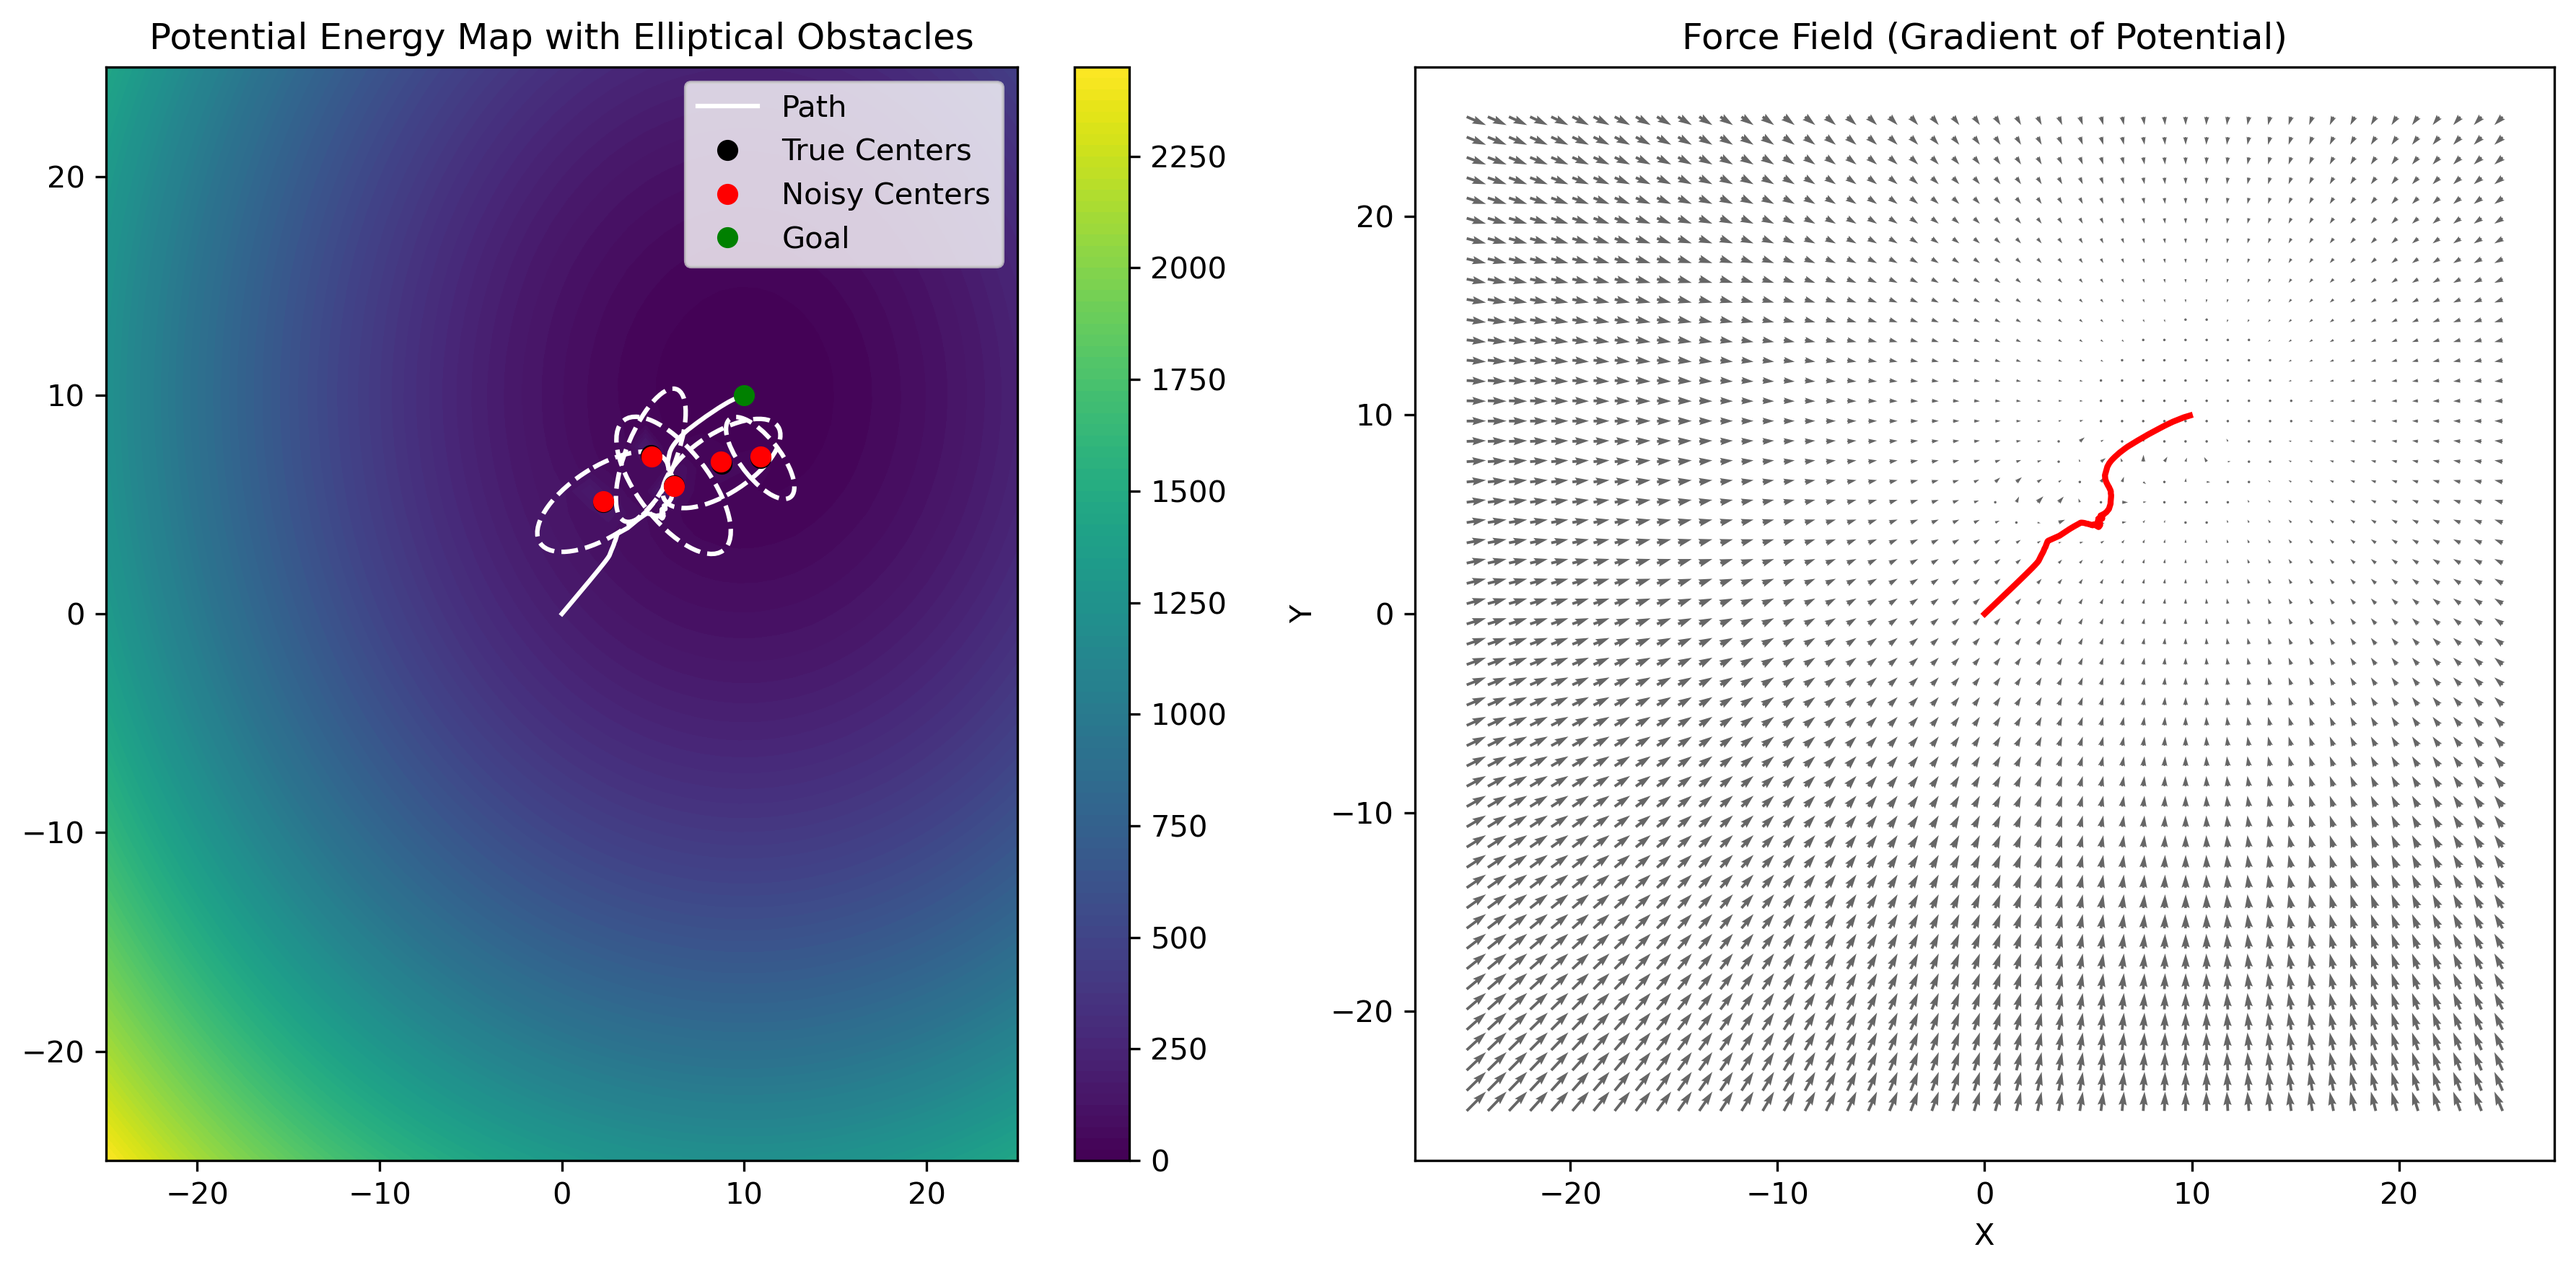
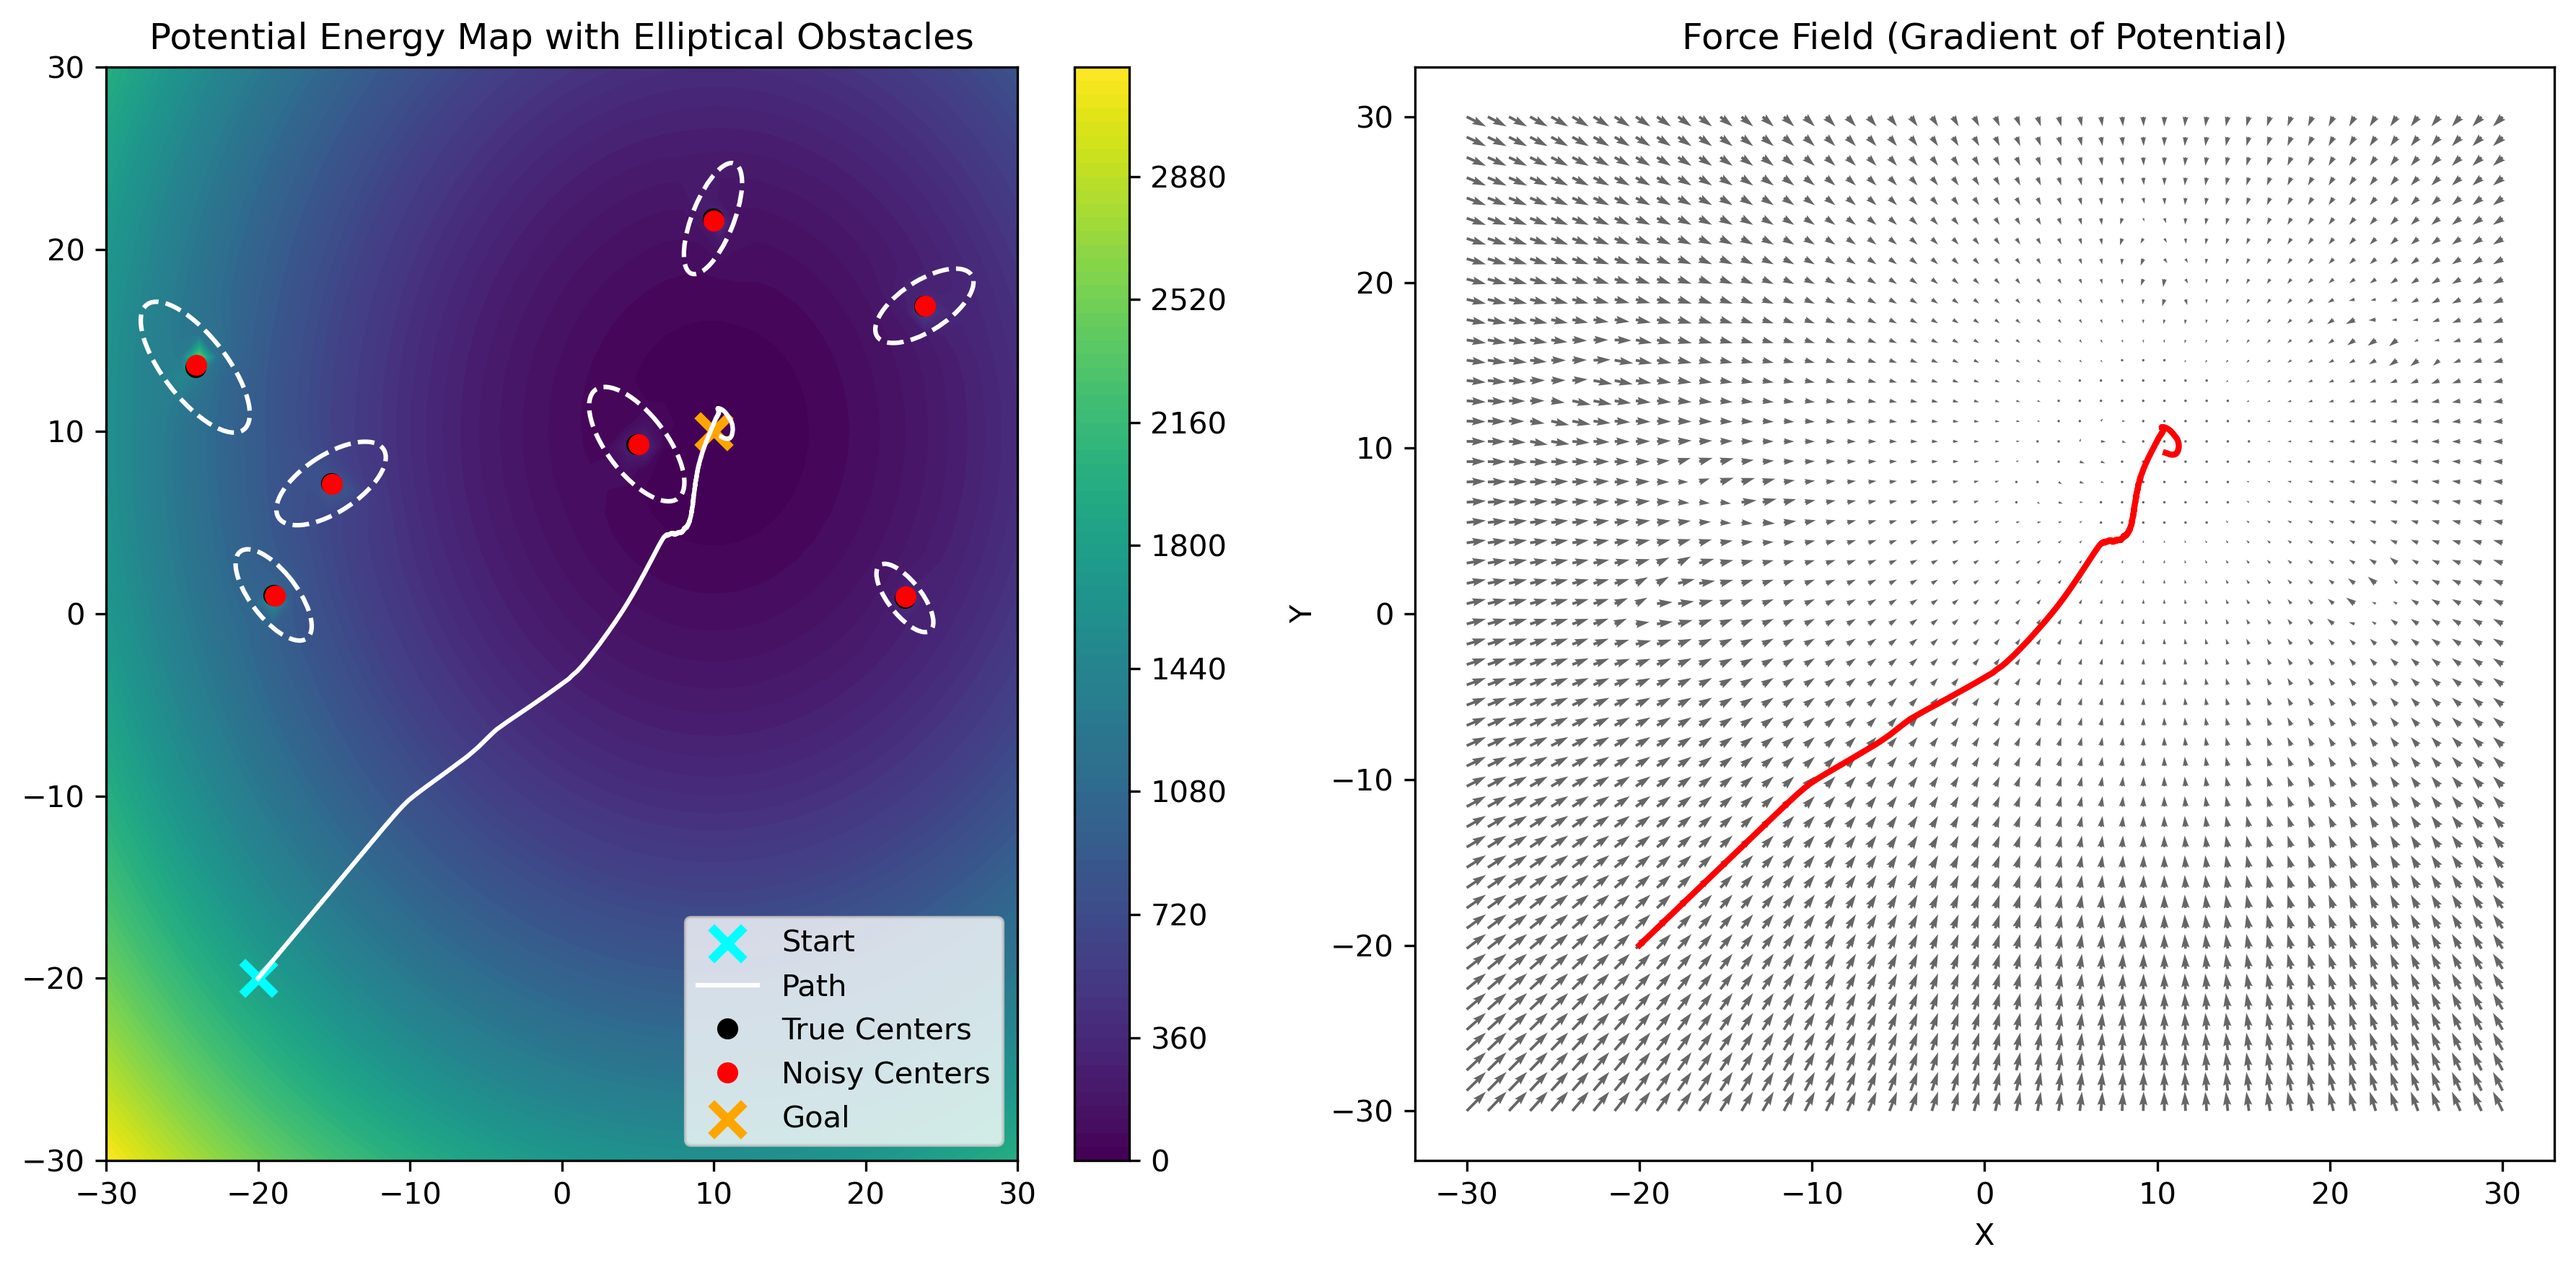
genarating figures and making obsticles static

diff --git a/simulation/complete_system.py b/simulation/complete_system.py
@@ -18,13 +18,18 @@ import random
 import time
 import itertools
 from typing import List, Optional, Tuple
+from datetime import datetime
+import matplotlib.pyplot as plt
+from matplotlib.patches import Ellipse
+from mpl_toolkits.mplot3d import Axes3D
 
 # Import potential field functions from existing code
 import sys
 import os
 sys.path.append(os.path.dirname(os.path.dirname(os.path.abspath(__file__))))
 from local_potential_field_demo_dynamic import (
-    total_force, dt  # total_force calculates attractive + repulsive forces, dt is time step
+    total_force, potential, dt,  # total_force and potential for visualization
+    a_base, b_base, alpha, beta  # For elliptical obstacle visualization
 )
 
 
@@ -588,10 +593,13 @@ def main():
     print("Running complete system (Global TSP + Local RRT + Potential Fields)...")
     print("Waypoints are dynamically generated based on obstacles and path")
     
+    # Make obstacles static (no movement)
+    obstacle_speeds = np.zeros_like(obstacle_speeds)
+    
     for step in range(max_steps):
-        # Update obstacles
-        obstacles_true[:, 0] += obstacle_speeds[:, 0] * dt
-        obstacles_true[:, 1] += obstacle_speeds[:, 1] * dt
+        # Obstacles are static - no position updates
+        # obstacles_true[:, 0] += obstacle_speeds[:, 0] * dt
+        # obstacles_true[:, 1] += obstacle_speeds[:, 1] * dt
         
         # Robot observes obstacles (noisy)
         obstacles_noisy = obstacles_true + np.random.normal(0, sigma, obstacles_true.shape)
@@ -619,6 +627,169 @@ def main():
             break
     
     print(f"Final path has {len(path_data)} points")
+    
+    # ============================================================
+    # Visualization: Generate figures based on actual run
+    # Uses same method/style as local_potential_field_demo_dynamic.py
+    # ============================================================
+    print("\nGenerating visualization figures...")
+    
+    # Convert path data to numpy array
+    path_array = np.array(path_data)
+    
+    # Create meshgrid for potential field computation
+    # Determine bounds from path and obstacles
+    all_x = list(path_array[:, 0]) + list(obstacles_true[:, 0]) + [q[0], q_goal[0]]
+    all_y = list(path_array[:, 1]) + list(obstacles_true[:, 1]) + [q[1], q_goal[1]]
+    x_min, x_max = min(all_x) - 2, max(all_x) + 2
+    y_min, y_max = min(all_y) - 2, max(all_y) + 2
+    
+    x_range = np.linspace(x_min, x_max, 50)
+    y_range = np.linspace(y_min, y_max, 50)
+    X, Y = np.meshgrid(x_range, y_range)
+    Z = np.zeros_like(X)
+    U = np.zeros_like(X)
+    V = np.zeros_like(Y)
+    
+    # Compute potential and force field using final obstacle positions
+    # Use the last noisy observation from the simulation
+    final_obstacles_noisy = obstacles_noisy
+    
+    for i in range(X.shape[0]):
+        for j in range(X.shape[1]):
+            pos = np.array([X[i, j], Y[i, j]])
+            # Compute potential
+            Z[i, j] = potential(pos, q_goal, final_obstacles_noisy, obstacle_speeds)
+            # Compute force field
+            F = total_force(pos, q_goal, final_obstacles_noisy, obstacle_speeds)
+            U[i, j], V[i, j] = F[0], F[1]
+    
+    # Create generated_figures directory for new figures (Dec 1st figures stay in figures/)
+    os.makedirs("generated_figures", exist_ok=True)
+    
+    # Generate unique filenames with timestamp (saved in generated_figures folder)
+    timestamp = datetime.now().strftime("%Y%m%d_%H%M%S")
+    fig_3d_name = f"generated_figures/fig_3d_potentialsurface_{timestamp}.png"
+    fig_contour_name = f"generated_figures/fig_contour_force_{timestamp}.png"
+    
+    # ---- 1⃣ 3D Potential Surface (same style as template) ----
+    fig = plt.figure(figsize=(10, 8))
+    ax = fig.add_subplot(111, projection='3d')
+    
+    # Surface + colorbar
+    surf = ax.plot_surface(X, Y, Z, cmap='viridis', alpha=0.7)
+    cbar = fig.colorbar(surf, ax=ax, shrink=0.6, pad=0.1)
+    cbar.set_label("Potential Energy", fontsize=14)
+    cbar.ax.tick_params(labelsize=12)
+    
+    # Path with correct potential computation
+    path_potentials = [potential(p, q_goal, final_obstacles_noisy, obstacle_speeds) for p in path_array]
+    ax.plot(path_array[:, 0], path_array[:, 1], path_potentials,
+            color='red', linewidth=2, label='Path')
+    
+    # Start position
+    ax.scatter(path_array[0, 0], path_array[0, 1], path_potentials[0],
+               color='cyan', marker='x', s=120, linewidths=3, label='Start')
+    
+    # REAL OBSTACLES (truth)
+    ax.scatter(obstacles_true[:, 0], obstacles_true[:, 1],
+               np.max(Z) * 0.8, color='black', s=80, label='True Obstacle Centers')
+    
+    # NOISY OBSTACLES (sensor-detected)
+    ax.scatter(final_obstacles_noisy[:, 0], final_obstacles_noisy[:, 1],
+               np.max(Z) * 0.8, color='red', s=80, label='Noisy Detected Centers')
+    
+    # Goal position
+    goal_potential = potential(q_goal, q_goal, final_obstacles_noisy, obstacle_speeds)
+    ax.scatter(q_goal[0], q_goal[1], goal_potential,
+               color='orange', s=80, marker='x', linewidths=3, label='Goal')
+    
+    # Labels and title
+    ax.set_xlabel('X', fontsize=16)
+    ax.set_ylabel('Y', fontsize=16)
+    ax.set_zlabel('Potential Energy', fontsize=16)
+    ax.set_title('3D Potential Field Surface', fontsize=18)
+    ax.tick_params(axis='both', labelsize=12)
+    ax.legend(fontsize=14)
+    
+    plt.savefig(fig_3d_name, dpi=300, bbox_inches='tight')
+    print(f"Saved: {fig_3d_name}")
+    plt.show()
+    
+    # ---- 2⃣ 2D Contour + Force Field (same style as template) ----
+    fig, axs = plt.subplots(1, 2, figsize=(12, 6))
+    
+    # Left plot: Contour map
+    contour = axs[0].contourf(X, Y, Z, levels=100, cmap='viridis')
+    
+    # Start position
+    start_x, start_y = path_array[0]
+    axs[0].scatter(start_x, start_y, marker='x', s=120, color='cyan', 
+                   linewidths=3, label='Start')
+    
+    # Path
+    axs[0].plot(path_array[:, 0], path_array[:, 1], 'w-', linewidth=2, label='Path')
+    
+    # True vs noisy obstacles
+    axs[0].plot(obstacles_true[:, 0], obstacles_true[:, 1], 'ko', 
+               markersize=8, label='True Centers')
+    axs[0].plot(final_obstacles_noisy[:, 0], final_obstacles_noisy[:, 1], 'ro', 
+               markersize=8, label='Noisy Centers')
+    
+    # Goal position
+    axs[0].scatter(q_goal[0], q_goal[1], marker='x', s=120, color='orange', 
+                  linewidths=3, label='Goal')
+    
+    # Draw ellipses for obstacles (same method as template)
+    for i, obs in enumerate(obstacles_true):
+        if i < len(obstacle_speeds):
+            vx, vy = obstacle_speeds[i]
+        else:
+            vx, vy = 0.0, 0.0
+        vmag = np.sqrt(vx**2 + vy**2)
+        theta = np.degrees(np.arctan2(vy, vx + 1e-12))
+        
+        # Physical ellipse
+        if i < len(a_base) and i < len(b_base):
+            a = a_base[i] + alpha * vmag
+            b = b_base[i] + beta * vmag
+        else:
+            a, b = 1.0, 1.0  # Default size
+        
+        ellipse = Ellipse(
+            xy=(obs[0], obs[1]),
+            width=2*a, height=2*b,
+            angle=theta,
+            edgecolor='white', facecolor='none',
+            linestyle='--', linewidth=1.5
+        )
+        axs[0].add_patch(ellipse)
+    
+    axs[0].set_title("Potential Energy Map with Elliptical Obstacles", fontsize=14)
+    axs[0].legend(fontsize=10)
+    axs[0].set_xlabel("X", fontsize=12)
+    axs[0].set_ylabel("Y", fontsize=12)
+    plt.colorbar(contour, ax=axs[0], label='Potential Energy')
+    
+    # Right plot: Force field
+    axs[1].quiver(X, Y, U, V, color='black', alpha=0.6)
+    axs[1].plot(path_array[:, 0], path_array[:, 1], 'r-', linewidth=2, label='Path')
+    axs[1].scatter(start_x, start_y, marker='x', s=120, color='cyan', 
+                  linewidths=3, label='Start')
+    axs[1].scatter(q_goal[0], q_goal[1], marker='x', s=120, color='orange', 
+                  linewidths=3, label='Goal')
+    axs[1].set_title("Force Field (Gradient of Potential)", fontsize=14)
+    axs[1].set_xlabel("X", fontsize=12)
+    axs[1].set_ylabel("Y", fontsize=12)
+    axs[1].legend(fontsize=10)
+    axs[1].set_aspect('equal')
+    
+    plt.tight_layout()
+    plt.savefig(fig_contour_name, dpi=300, bbox_inches='tight')
+    print(f"Saved: {fig_contour_name}")
+    plt.show()
+    
+    print("\nVisualization complete!")
 
 
 if __name__ == "__main__":

diff --git a/simulation/README.md b/simulation/README.md
@@ -1,18 +1,21 @@
-# Robot Path Planning - Work in Progress
+# Robot Path Planning System
 
-A Python-based global path planning system for robot navigation using a Traveling Salesman Problem (TSP) approach for waypoint optimization and A* algorithm for obstacle avoidance. Designed for future integration with Isaac Sim.
+A Python-based integrated path planning system for robot navigation combining global planning (TSP) with local planning (RRT + Potential Fields) for obstacle avoidance.
 
-## Current Status
+## Overview
 
-**Work in Progress** - Basic structure and core components implemented.
+The system uses a two-level planning approach:
+- **Global Planner (TSP)**: Optimizes waypoint order every 5 seconds to minimize travel distance
+- **Local Planner (RRT + Potential Fields)**: Handles real-time navigation and collision-free pathfinding between waypoints
 
-## Features (Planned)
+## Features
 
-- Global path planning with A* algorithm
-- TSP-based waypoint optimization  
-- Dynamic obstacle avoidance (2 moving obstacles)
-- Real-time path replanning
-- Isaac Sim integration
+- TSP-based waypoint optimization with obstacle awareness
+- RRT path planning for collision-free navigation
+- Potential field integration for dynamic obstacle avoidance
+- Dynamic waypoint generation (no hardcoded waypoints)
+- Periodic replanning every 5 seconds
+- Visualization of potential fields and robot paths
 
 ## Installation
 
@@ -20,44 +23,49 @@ A Python-based global path planning system for robot navigation using a Travelin
 pip install -r requirements.txt
 ```
 
-## Basic Usage
+## Usage
 
 ```python
-from path_planner import PathPlanner, Obstacle, Point
-from simulation import Simulation
+from complete_system import CompleteSystem
+from local_potential_field_demo_dynamic import obstacles_true, obstacle_speeds, sigma
+import numpy as np
 
-# Create simulation
-sim = Simulation()
+# Initialize system
+system = CompleteSystem(replan_interval=5.0, rrt_step_size=0.3, rrt_max_iter=300)
 
-# Setup scenario
-start = Point(0.0, 0.0)
-goal = Point(4.0, 4.0)
+# Set start and goal positions
+q = np.array([0.0, 0.0])
+q_goal = np.array([10.0, 10.0])
 
-obstacles = [
-    Obstacle(Point(1.5, 1.5), 0.4, Point(0.3, 0.2), id=1),
-    Obstacle(Point(2.5, 2.5), 0.3, Point(-0.2, 0.3), id=2)
-]
-
-sim.setup_scenario(start, goal, obstacles)
-
-# Plan path
-path = sim.planner.plan_global_path(start, goal)
+# Run simulation
+# (See complete_system.py main() for full example)
 ```
 
 ## File Structure
 
 ```
 simulation/
-├── path_planner.py      # Core path planning algorithms (A*, TSP)
-├── simulation.py        # Basic simulation class
-├── requirements.txt     # Python dependencies
-└── README.md           # This file
+├── complete_system.py          # Main integrated system (TSP + RRT + Potential Fields)
+├── global_planner_simple.py    # Standalone global planner
+├── rrt_planner.py              # Standalone RRT planner
+├── rrt_potential_integrated.py # RRT + Potential Fields integration
+├── figures/                    # Template visualization figures
+├── generated_figures/          # Generated figures from each run
+├── requirements.txt            # Python dependencies
+└── README.md                   # This file
 ```
 
-## Next Steps
+## System Components
 
-- Complete path planning implementation
-- Add robot movement simulation
-- Implement dynamic obstacle handling
-- Integrate with Isaac Sim
+- **GlobalPlanner**: TSP-based waypoint optimization with obstacle-aware path checking
+- **RRTPlanner**: Rapidly-exploring Random Tree for collision-free path generation
+- **CompleteSystem**: Orchestrates global and local planning
 
+## Visualization
+
+The system generates visualization figures showing:
+- 3D potential field surface
+- 2D contour map with force field
+- Robot path and obstacle positions
+
+Figures are saved to `generated_figures/` with timestamps for each run.
